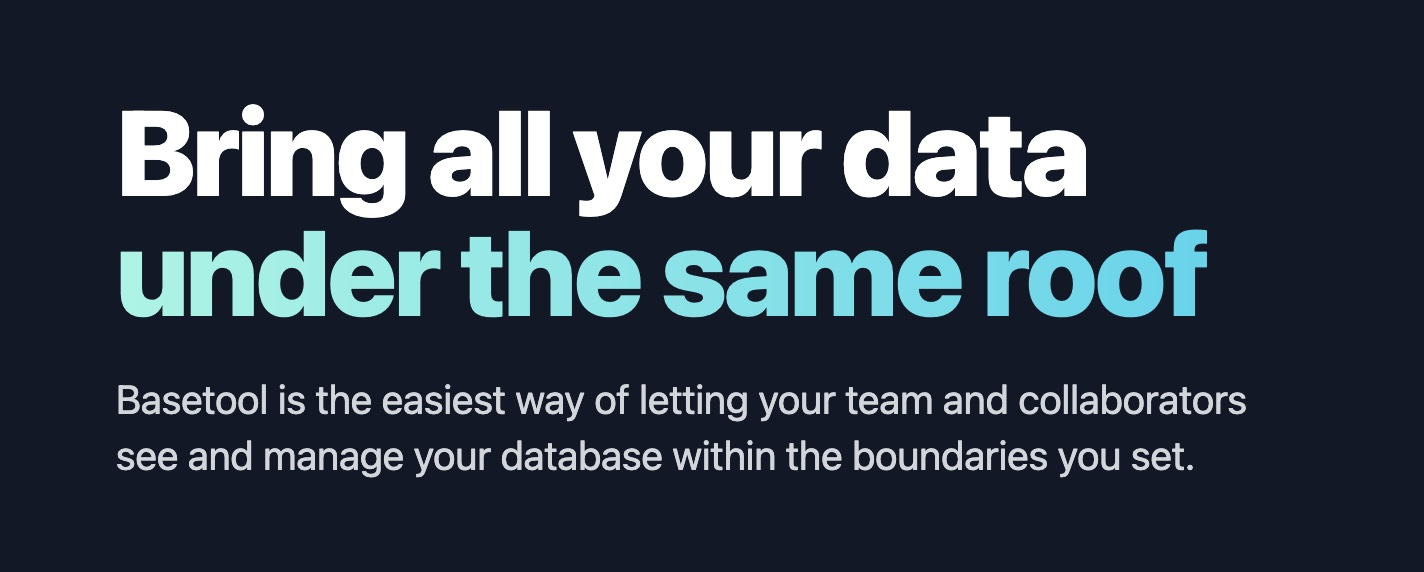
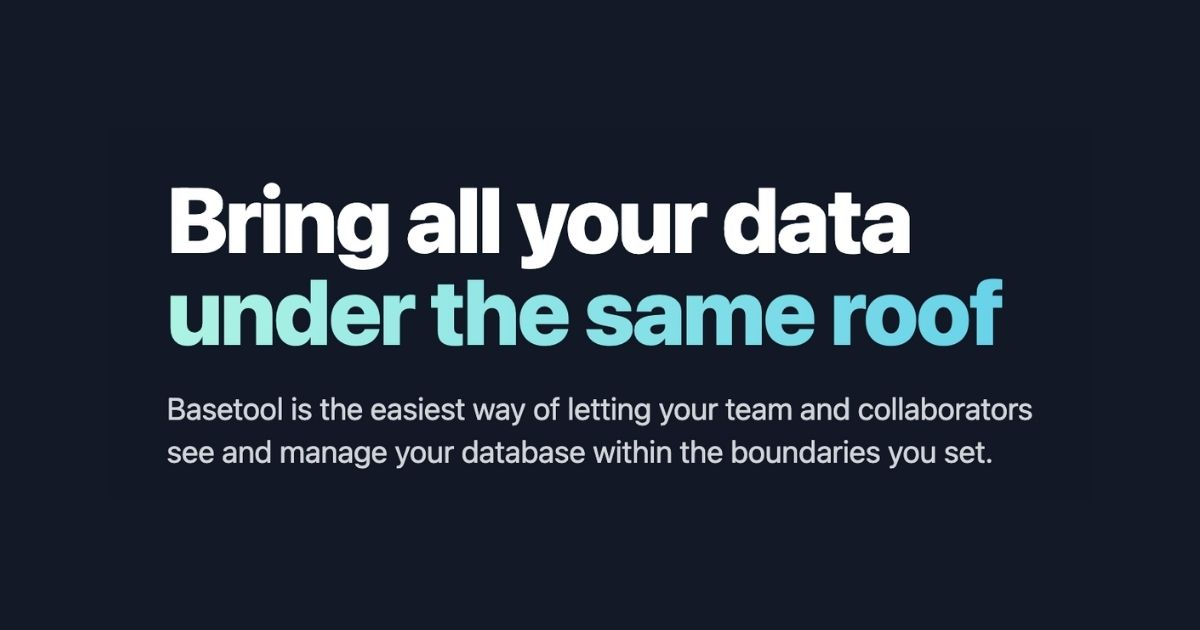
chore: new meta properties and cover image (#111)

Changed region(s): [[0.0617, 0.1783, 0.8633, 0.5647], [0.0617, 0.6241, 0.8942, 0.743], [0.0617, 0.7727, 0.8325, 0.8322]]

diff --git a/components/Layout.tsx b/components/Layout.tsx
@@ -12,6 +12,7 @@ import React, { ReactNode, useEffect, useMemo } from "react";
 import SettingsSidebar from "./OrganizationSidebar";
 import Sidebar from "./Sidebar";
 import classNames from "classnames";
+import meta from "@/lib/siteMeta";
 
 function Layout({
   hideSidebar = false,
@@ -64,37 +65,24 @@ function Layout({
 
   const [sidebarsVisible] = useSidebarsVisible();
 
-  const meta = {
-    name: 'basetool',
-    separator: '·',
-    description: 'All your data under the same roof',
-    url: 'https://basetool.io',
-    image: 'img/cover.jpg',
-    twitter: {
-      handle: '@basetool',
-    }
-  }
-  const title = `${meta.name} ${meta.separator} ${meta.description}`
-  const imagePath = `${meta.url}/${meta.image}`
-
   return (
     <Authenticated>
       <>
         <Head>
-          <title>{title} 👋</title>
+          <title>{meta.title} 👋</title>
           <meta name="description" content={meta.description} />
-          <meta name="twitter:title" content={title}/>
-          <meta name="twitter:description" content={meta.description}/>
-          <meta name="twitter:card" content="summary_large_image"/>
-          <meta name="twitter:site" content={meta.twitter.handle}/>
-          <meta name="twitter:image" content={imagePath}/>
-          <meta property="og:title" content={title}/>
-          <meta property="og:description" content={meta.description}/>
-          <meta property="og:type" content="website"/>
-          <meta property="og:url" content={meta.url}/>
-          <meta property="og:image" content={imagePath}/>
-          <meta property="og:image:width" content="1376"/>
-          <meta property="og:image:height" content="604"/>
+          <meta name="twitter:title" content={meta.title} />
+          <meta name="twitter:description" content={meta.description} />
+          <meta name="twitter:card" content="summary_large_image" />
+          <meta name="twitter:site" content={meta.twitter.handle} />
+          <meta name="twitter:image" content={meta.imagePath} />
+          <meta property="og:title" content={meta.title} />
+          <meta property="og:description" content={meta.description} />
+          <meta property="og:type" content="website" />
+          <meta property="og:url" content={meta.url} />
+          <meta property="og:image" content={meta.imagePath} />
+          <meta property="og:image:width" content="1376" />
+          <meta property="og:image:height" content="604" />
           <Favicons />
         </Head>
         <div className="antialiased flex w-screen h-screen">

diff --git a/components/PublicLayout.tsx b/components/PublicLayout.tsx
@@ -1,15 +1,13 @@
 import { inProduction } from "@/lib/environment";
 import { useIntercom } from "react-use-intercom";
 import { useSession } from "next-auth/client";
+import Favicons from "./Favicons"
 import Head from "next/head";
 import React, { ReactNode, useEffect } from "react";
 import classNames from "classnames";
+import meta from "@/lib/siteMeta";
 
-function Layout({
-  children,
-}: {
-  children: ReactNode;
-}) {
+function Layout({ children }: { children: ReactNode }) {
   const [session, sessionIsLoading] = useSession();
   const { boot, update } = useIntercom();
 
@@ -33,9 +31,21 @@ function Layout({
   return (
     <>
       <Head>
-        <title>👋 Basetool!</title>
-        <meta name="description" content="The Airtable to your database" />
-        <link rel="icon" href="/favicon.ico" />
+        <title>{meta.title} 👋</title>
+        <meta name="description" content={meta.description} />
+        <meta name="twitter:title" content={meta.title} />
+        <meta name="twitter:description" content={meta.description} />
+        <meta name="twitter:card" content="summary_large_image" />
+        <meta name="twitter:site" content={meta.twitter.handle} />
+        <meta name="twitter:image" content={meta.imagePath} />
+        <meta property="og:title" content={meta.title} />
+        <meta property="og:description" content={meta.description} />
+        <meta property="og:type" content="website" />
+        <meta property="og:url" content={meta.url} />
+        <meta property="og:image" content={meta.imagePath} />
+        <meta property="og:image:width" content="1376" />
+        <meta property="og:image:height" content="604" />
+        <Favicons />
       </Head>
       <div className="flex w-screen h-screen">
         <div

diff --git a/lib/siteMeta.ts b/lib/siteMeta.ts
@@ -1,0 +1,21 @@
+const name = "basetool";
+const description = "All your data under the same roof";
+const separator = "·";
+const title = `${name} ${separator} ${description}`;
+const url = "https://basetool.io";
+const image = "img/cover.jpg";
+const imagePath = `${url}/${image}`;
+const meta = {
+  title,
+  name,
+  separator,
+  description,
+  url,
+  image,
+  imagePath,
+  twitter: {
+    handle: "@basetool",
+  },
+};
+
+export default meta;
